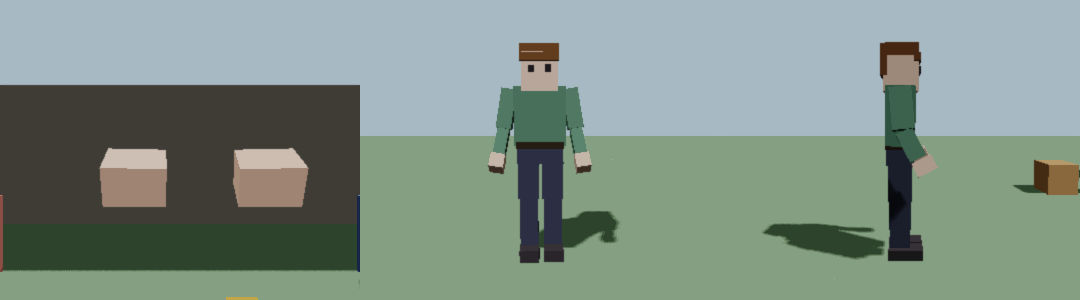
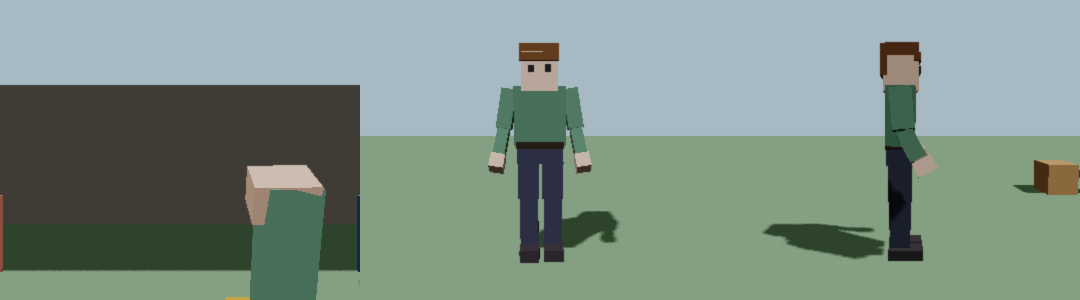
fp hand: honest Both arms wording, final pictures

Changed region(s): [[0.2139, 0.48, 0.3056, 1.0], [0.0917, 0.48, 0.1528, 0.69]]

diff --git a/engine/include/okay/Components/FirstPersonHands.hpp b/engine/include/okay/Components/FirstPersonHands.hpp
@@ -47,7 +47,7 @@ public:
             case Preset::Normal:
                 return "The arm is always in view (not only when you hold something): a hand and a forearm in your shirt colour that leaves the bottom of the screen. Left click swings it. A two-handed item uses both.";
             case Preset::BothArms:
-                return "Normal, but whatever you hold is held in both hands, even a small one-handed item. With empty hands one arm shows (a two-arm empty stance is not built yet).";
+                return "Normal, but asks for both hands on a held item. Today an item whose own grip is one-handed still shows one hand, and with empty hands one arm shows, so this looks the same as Normal for those (a two-arm stance is not built yet).";
             case Preset::RightHandOnly:
                 return "Normal, but only the right arm ever shows, even for a two-handed item.";
             case Preset::Minimal:

diff --git a/docs/UNFINISHED.md b/docs/UNFINISHED.md
@@ -103,7 +103,7 @@ These are "-style" subsets, not the real languages: code written for the real Lu
 - Improve inventory systems (survival-game style): partly done (moves, stack and weight rules, slot-to-grid moves); see [inventory.md](inventory.md) for what is left
 - Scene Manager window in the editor
 - Full UI component library (essential, game, app, layout, data-driven)
-- Blocky character's arms in first person: the owner's complaint ("fix the first person hand so it looks normal to others and to us") is addressed on `claude/fp-hand-fix` (presets, always-visible arm with forearm, click swing, example scene, see [fp_hand.md](fp_hand.md)); still open: no fingers, a finer arm pose than a block, the first-person pose is not sent over the network, owner sign-off on the default look
+- Blocky character's arms in first person: the owner's complaint ("fix the first person hand so it looks normal to others and to us") is addressed on `claude/fp-hand-fix` (presets, always-visible arm with forearm, click swing, example scene, see [fp_hand.md](fp_hand.md)); still open: a real two-arm stance (Both arms preset only changes two-handed items), no fingers, a finer arm pose than a block, the first-person pose is not sent over the network, owner sign-off on the default look
 - Script language phases 2 to 5: classes, physics and events, visual-script shared layer, tooling and debugger, export, replace the old VM
 - Per-face materials (renderer submeshes)
 - Script editor: classes, default templates, no random script on New Script

diff --git a/docs/try_it.md b/docs/try_it.md
@@ -841,7 +841,7 @@ front of the player, right a camera at the side). Details: [fp_hand.md](fp_hand.
 3. Walk up to a block (red cube, blue block, green box), press **E** to hold it. It sits in the hand. The green box is two-handed.
 4. The small picture at the top right is a second camera looking back at you: you should see a whole person with two arms, the
    held block in the hand and the arm swinging when you click. No floating hand there.
-5. Stop. Select **Player**, in the Inspector find **First Person Hands**, open **Preset** and pick Both arms (hold a block: both hands), Right hand
+5. Stop. Select **Player**, in the Inspector find **First Person Hands**, open **Preset** and pick Both arms (looks like Normal except for two-handed items, see fp_hand.md), Right hand
    only, Minimal (just the hand block) or **Old look**; press Play each time. **Use normal first-person arms** brings the normal look back (Ctrl+Z also undoes it).
    **Open Preview** shows both views live as you change a preset.
 

diff --git a/docs/fp_hand.md b/docs/fp_hand.md
@@ -26,7 +26,7 @@ smaller; left click swings the real arm (so others see the swing too); a two-han
 | Preset | What it does |
 |---|---|
 | Normal (default) | Arm always in view, forearm in the shirt colour, click swings, both hands for two-handed items |
-| Both arms | Normal, but whatever you hold is held in both hands. With empty hands one arm shows (a two-arm empty stance is not built yet) |
+| Both arms | Normal, but asks for both hands on a held item. A one-handed item still shows one hand and empty hands show one arm, so it looks like Normal for those; **a real two-arm stance is not built yet** |
 | Right hand only | Normal, but only the right arm ever shows |
 | Minimal (hand only) | Just a small hand block, no forearm |
 | Old look | The behaviour before presets, for comparing: floating block, only while holding, no click swing |
